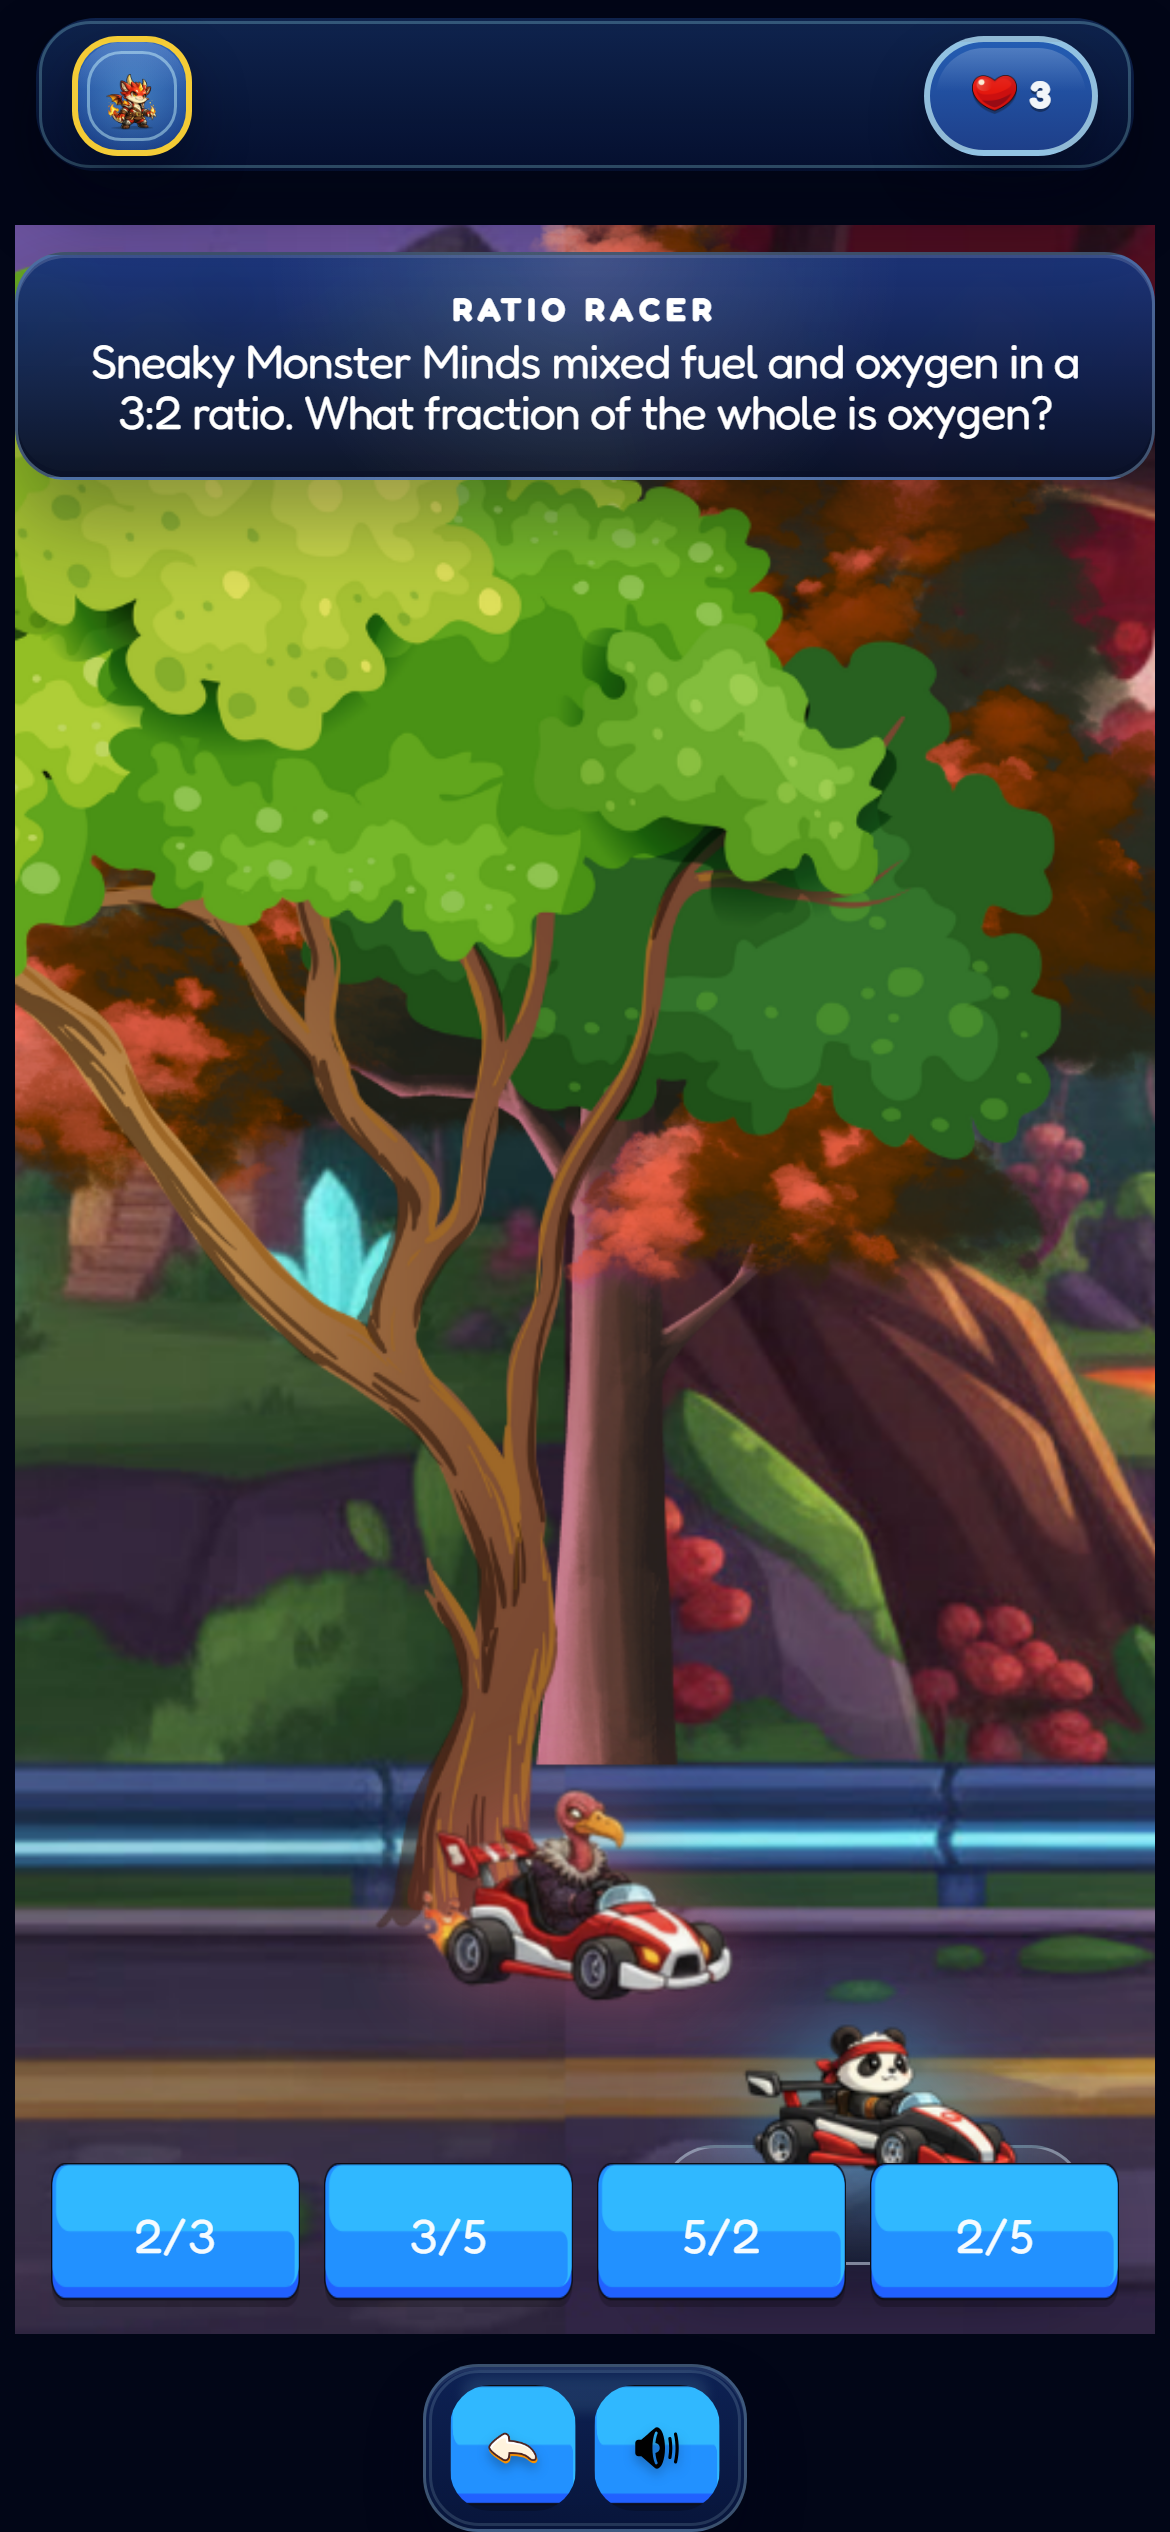
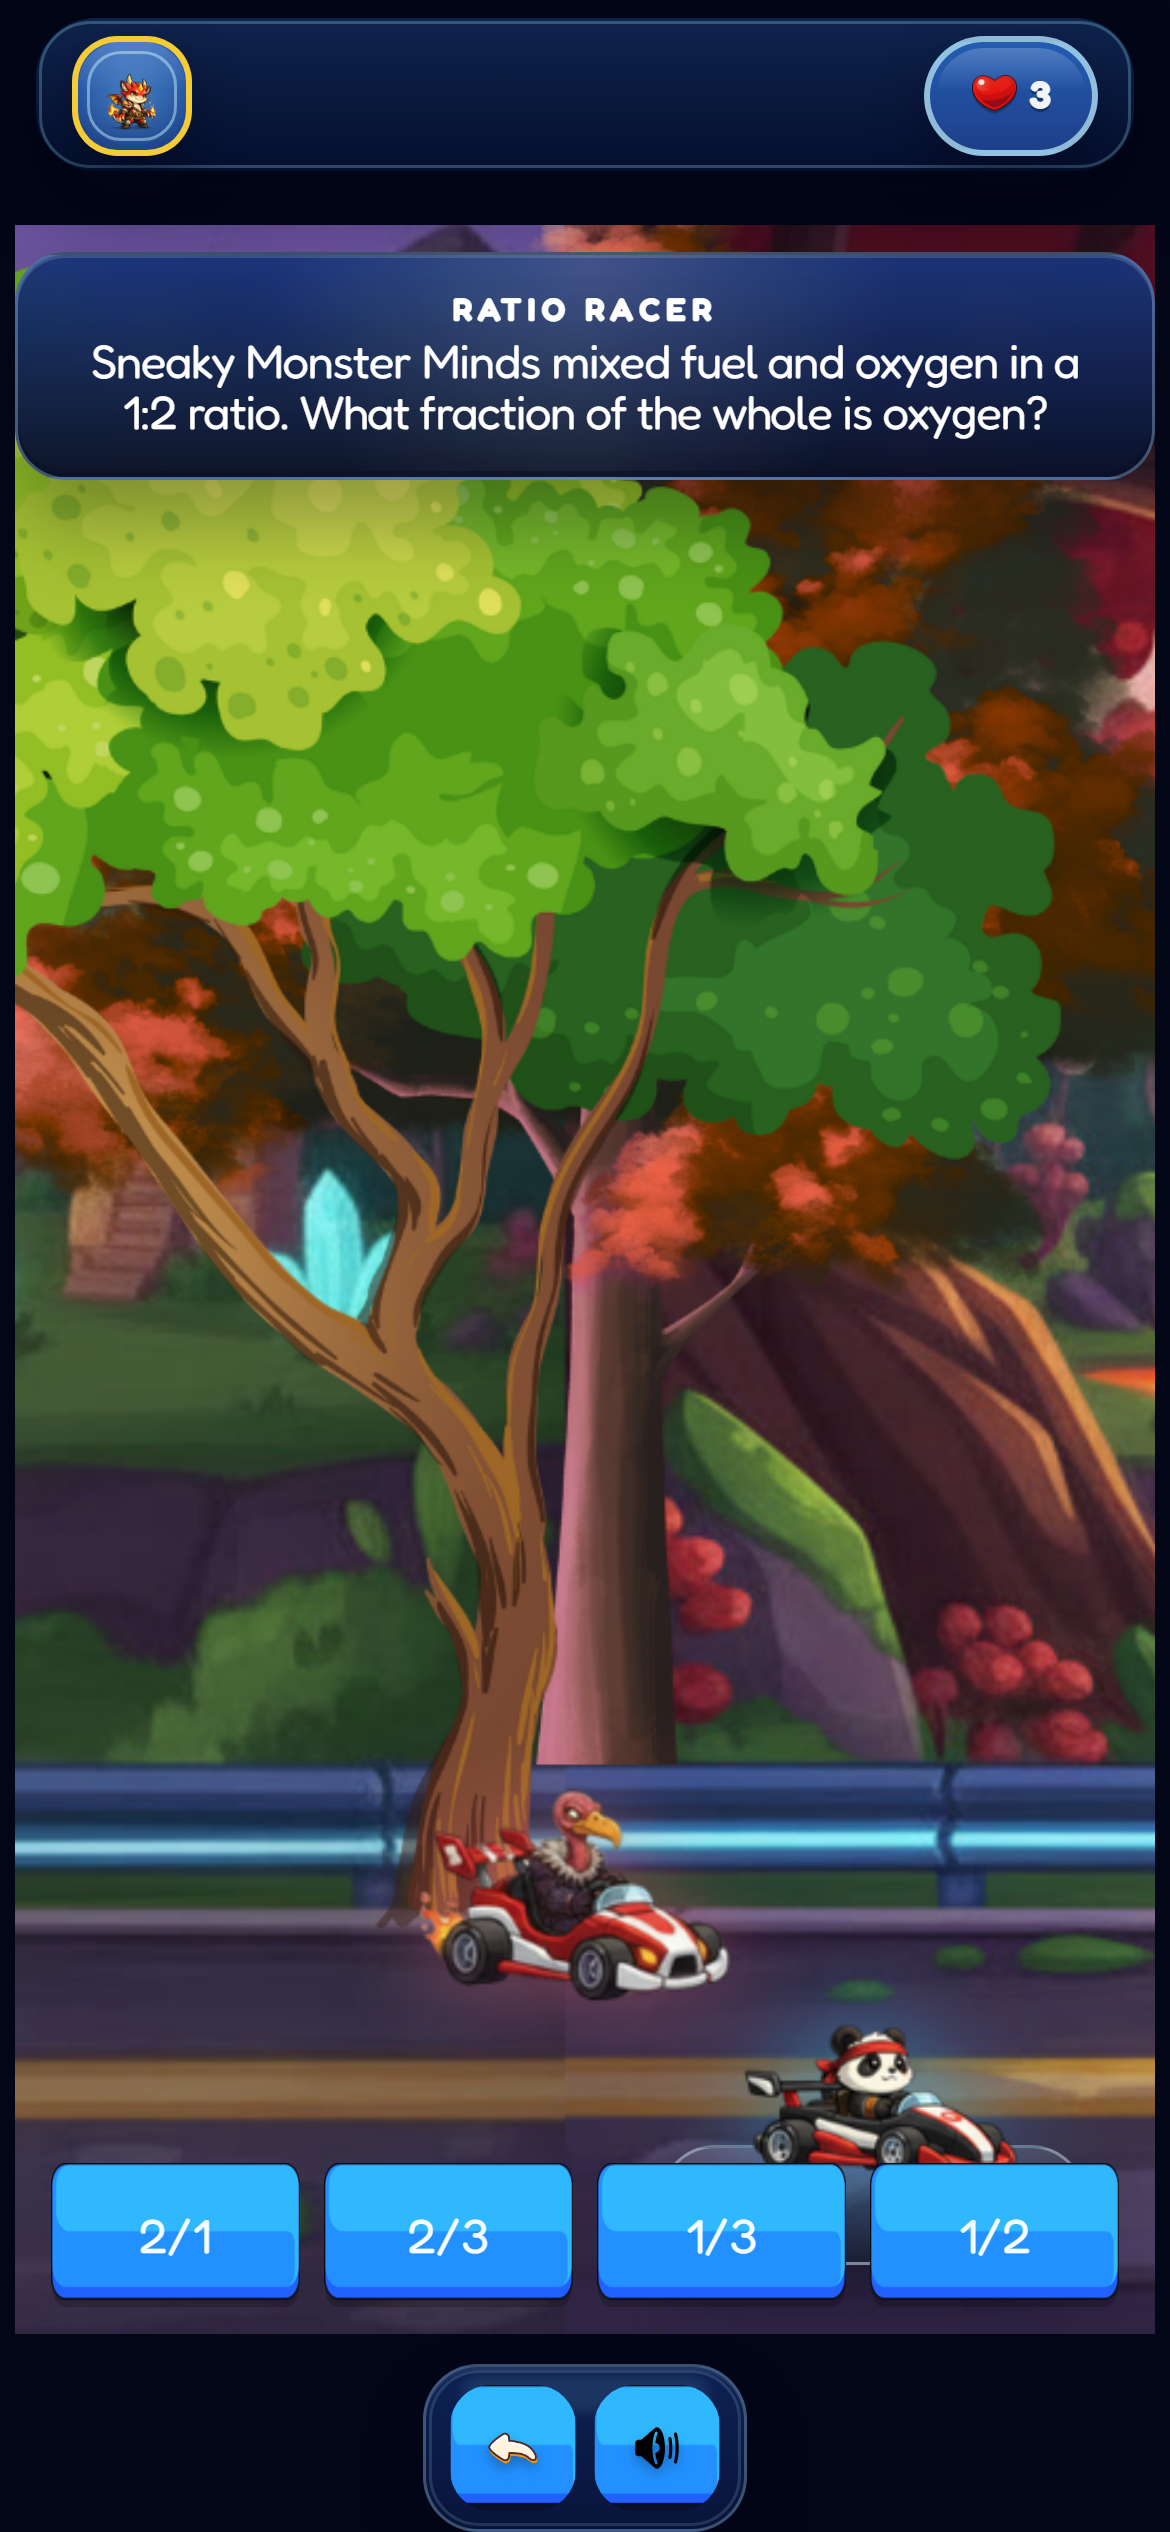
up

diff --git a/src/games/RatioFractionsGame.tsx b/src/games/RatioFractionsGame.tsx
@@ -631,32 +631,30 @@ const RatioFractionsGame: React.FC<RatioFractionsGameProps> = ({
           </div>
         </div>
 
+        <div className="pointer-events-none fixed left-0 right-0 z-[60]" style={{ top: '4px' }}>
+          <GameQuestionCard
+            title="Ratio Racer"
+            className="mx-auto w-full max-w-[56rem] px-2 sm:px-3 md:px-4"
+            style={{
+              ['--question-card-width' as any]: 'min(100%, 56rem)',
+              ['--question-card-padding' as any]: '16px 18px',
+            }}
+            subtitle={feedback ? (
+              <div className={`text-[11px] font-semibold md:text-[13px] ${
+                ['Great!', 'Amazing!', 'Awesome!', 'Fantastic!'].includes(feedback)
+                  ? 'rounded-full border border-amber-100/70 bg-[linear-gradient(135deg,rgba(255,241,166,0.96),rgba(125,211,252,0.9))] px-3 py-1 text-slate-950 shadow-[0_0_22px_rgba(251,191,36,0.55)]'
+                  : 'text-amber-100'
+              }`}>{feedback}</div>
+            ) : null}
+            titleClassName="text-[12px] md:text-[14px] tracking-[0.28em]"
+            bodyClassName="text-[clamp(1.15rem,4vw,1.7rem)] font-black leading-[1.08] tracking-tight md:text-[clamp(1.3rem,2.4vw,2rem)]"
+          >
+            {question.prompt}
+          </GameQuestionCard>
+        </div>
+
         <GameScreenLayout
           className="relative z-10 px-3 pb-[calc(env(safe-area-inset-bottom)+0.7rem)] pt-0 text-white"
-          topClassName="!min-h-0"
-          top={(
-            <div className="pointer-events-none fixed left-0 right-0 z-[60]" style={{ top: '4px' }}>
-              <GameQuestionCard
-                title="Ratio Racer"
-                className="mx-auto w-full max-w-[56rem] px-2 sm:px-3 md:px-4"
-                style={{
-                  ['--question-card-width' as any]: 'min(100%, 56rem)',
-                  ['--question-card-padding' as any]: '16px 18px',
-                }}
-                subtitle={feedback ? (
-                  <div className={`text-[11px] font-semibold md:text-[13px] ${
-                    ['Great!', 'Amazing!', 'Awesome!', 'Fantastic!'].includes(feedback)
-                      ? 'rounded-full border border-amber-100/70 bg-[linear-gradient(135deg,rgba(255,241,166,0.96),rgba(125,211,252,0.9))] px-3 py-1 text-slate-950 shadow-[0_0_22px_rgba(251,191,36,0.55)]'
-                      : 'text-amber-100'
-                  }`}>{feedback}</div>
-                ) : null}
-                titleClassName="text-[12px] md:text-[14px] tracking-[0.28em]"
-                bodyClassName="text-[clamp(1.15rem,4vw,1.7rem)] font-black leading-[1.08] tracking-tight md:text-[clamp(1.3rem,2.4vw,2rem)]"
-              >
-                {question.prompt}
-              </GameQuestionCard>
-            </div>
-          )}
           main={<div className="min-h-0 flex-1" />}
           bottom={(
             <div className="answer-choice-surface grid grid-cols-4 gap-2">
